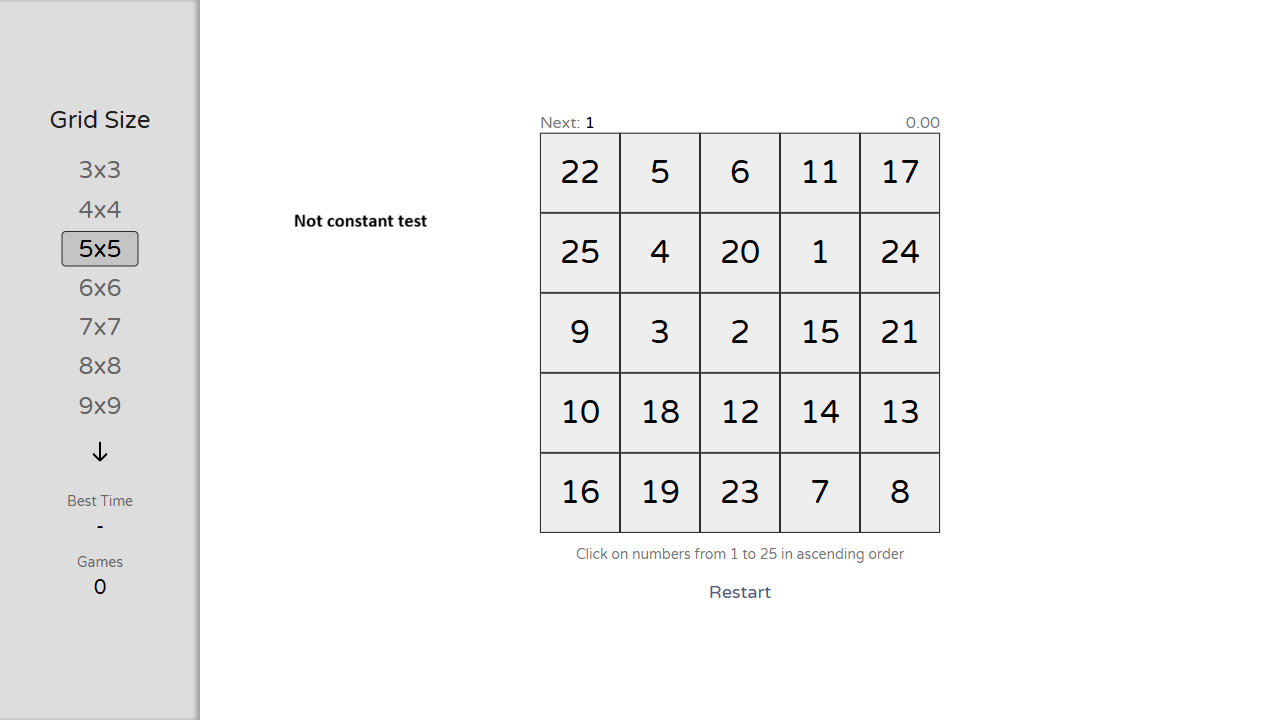
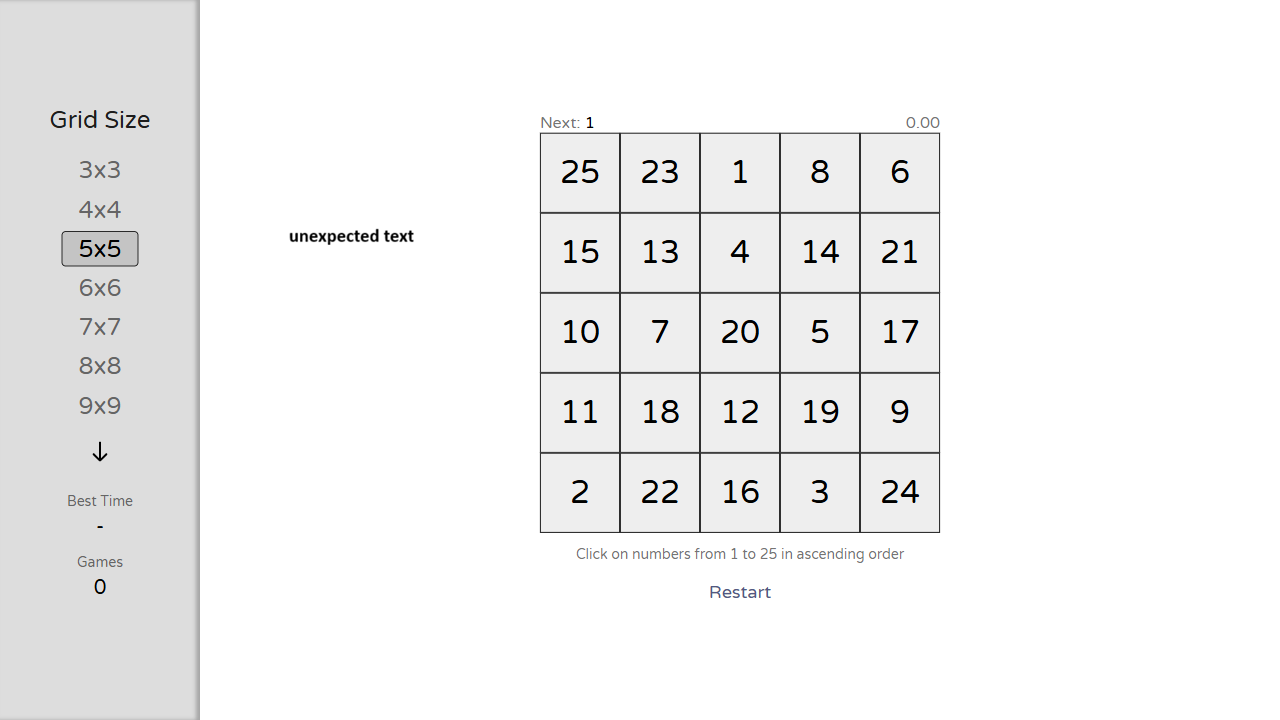
Minor file updating

diff --git a/pytest_playwrigt_ui_basic/Readme.md b/pytest_playwrigt_ui_basic/Readme.md
@@ -51,7 +51,7 @@ diff = diff.point(lambda x: 255 if x > 0 else 0) - define content of found_diffe
 <li>Line <i>page_content.make_screen_shot(actual_image)</i> is commented</li>
 <li><b>actual.png == actual_corrupted_for_test.png</b></li>
 <li>Tests fails</li>
-- found_differences.png and tested_image.png contains text - "Not constant test"
+- found_differences.png and tested_image.png contains text - "unexpected text"
 
 ### Scenario 5 corrupted Fixed
 <li><b>mask_image.png == mask_image_corrected.png</b></li>
